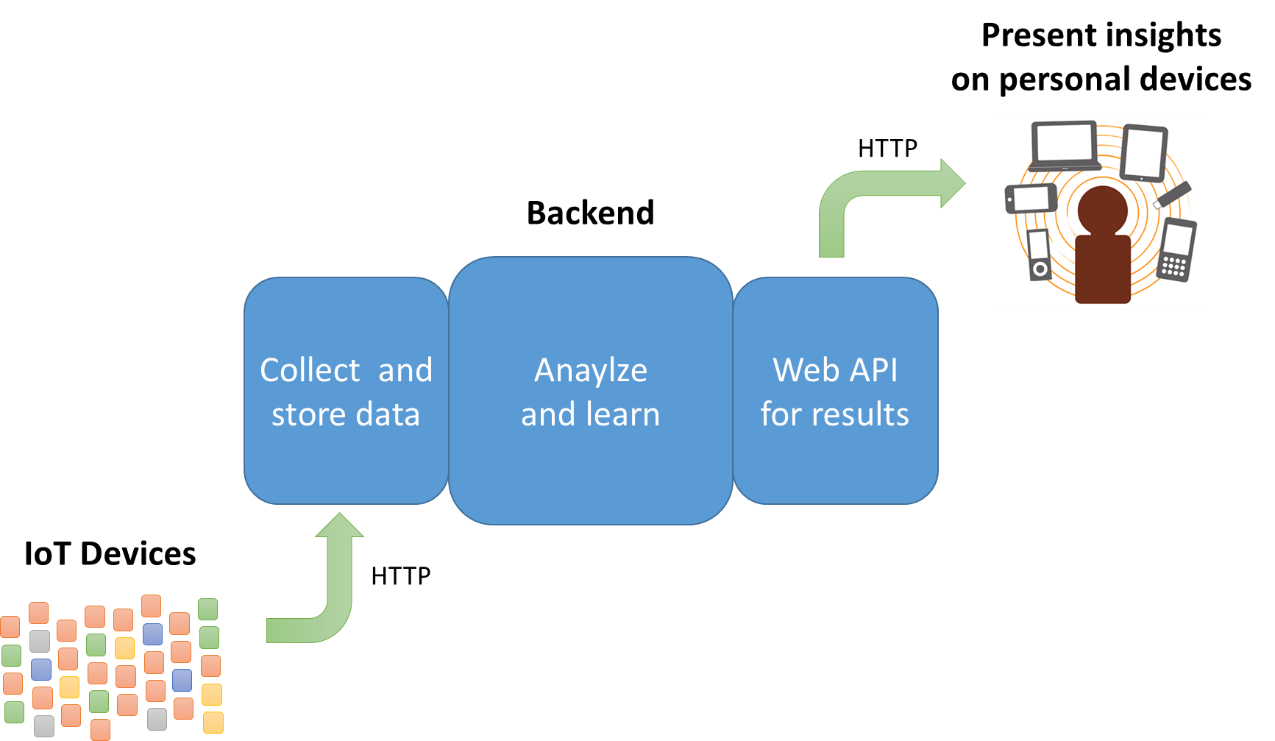
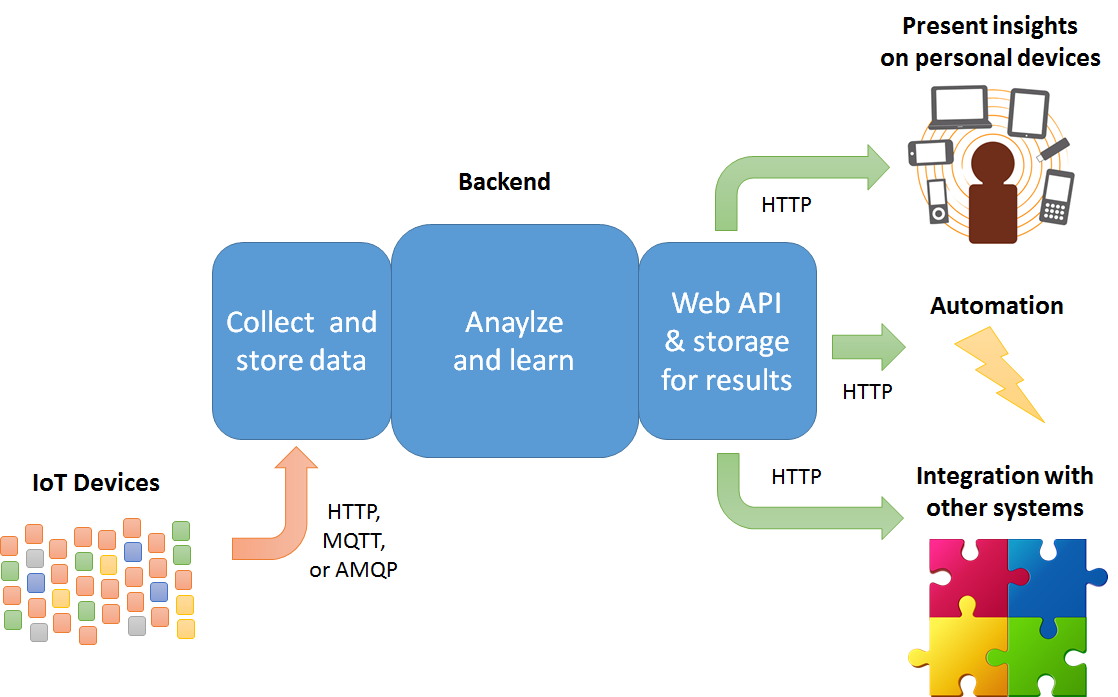
added/updated images

diff --git a/Docs/RefDocs/02-TopLevel/02-main-components-and-relationships.md b/Docs/RefDocs/02-TopLevel/02-main-components-and-relationships.md
@@ -2,28 +2,28 @@
 
 As described in the introduction, the design of the overall {Token:ProjectName} system has three primary components:
 
-- IoT devices connected via HTTP to the Azure IoT Hub component of the backend.
+- IoT devices connected via HTTP to the Azure IoT Hub ("cloud gateway") component of the backend.
 - The backend as a whole, which is composed of a number of Azure services.
-- Mobile devices, tablets, and/or PCs running apps connected via HTTP to the backend’s API endpoints.
+- Data visualization and consumption through apps on mobile/tablet/PC devices, through automated systems, or through integration with other systems. In general, these consume the backend’s API endpoints or other access to storage.
 
 ![Top-level relationship between the main components](media/top-level-relationships-01-top.png)
 
-The IoT devices can be built in a number of ways, with the sole requirement being their ability to communicate with the backend’s IoT Hub through HTTP as shown above. In the {Token:ProjectName} demonstration, these “devices,” as outlined in the figure below, are composed of an OBD dongle that’s plugged directly into the vehicle, which talks to a mobile phone via Bluetooth, which in turn sends data onto the backend via HTTP:
+The IoT devices can be built in a number of ways, with the sole requirement being their ability to communicate with the backend cloud gateway through protocols such as HTTP, MQTT, or AMQP as shown above. In the {Token:ProjectName} demonstration, these “devices,” as outlined in the figure below, are composed of an OBD dongle that’s plugged directly into the vehicle, which talks to a mobile phone via Bluetooth, which in turn sends data to the backend via HTTP:
 
 ![Interface between IoT devices and the backend using IoT Hub](media/top-level-relationships-02-iot.png)
 
-It’s essential to understand here that the mobile phone is simply acting as a “field gateway” to route the IoT data to the backend's "cloud gateway." We chose this model in the demonstration scenario because most consumers already have a mobile phone and can acquire an inexpensive off-the-shelf, Bluetooth-capable OBD device to plug into their car. This minimizes the cost of that particular user experience.
+It’s essential to understand that in this role the mobile phone is simply acting as a “field gateway” to route the IoT data to the backend's cloud gateway (IoT Hub in this case). We chose this model for {Token:ProjectName} because most drivers already have a mobile phone and can acquire an inexpensive off-the-shelf, Bluetooth-capable OBD device to plug into their car. This avoids having to acquire a more expensive dedicated IoT device, which is to say, minimizes the overall cost of the user experience.
 
-In your own scenarios, on the other hand, a mobile device might not be appropriate or would raise the cost of the overall solution, whereas using building a dedicated device with a Raspberry Pi would be much better. Again, it doesn’t matter so long as the “device” here can interact with the cloud gateway (e.g. Azure IoT Hub) via one of its supported protocols. We’ll see all the details in Section 2.1, *IoT devices*.
+In your own scenarios, on the other hand, a mobile device might not be appropriate or assumed, in which case building a dedicated device with a Raspberry Pi could be more cost-effective. Again, it doesn’t matter so long as the “device” here can interact with the cloud gateway via one of its supported protocols. We’ll see all the details in Section 2.1, *IoT devices*.
 
-On the other side of the system, the value derived from the IoT data is delivered through API endpoints in the backend:
+On the other side of the system, the value derived from the IoT data is delivered through API endpoints in the backend, which includes storage mechanisms that are access through HTTP (and possibly other protocols not shown):
 
 ![Interface between the mobile app and the backend using App Service](media/top-level-relationships-03-mobile.png)
  
-How you deliver the user experience is entirely up to you—and in fully automated scenarios might not even involve a user experience. In our demonstration scenario we’ve chosen Xamarin to deliver apps on iOS, Android, and Windows, but you can just as easily use a web browser, Apache Cordova, ReactNative, Unity 3D or other immersive graphics/gaming engine, and so on.
+How you deliver the user experience is entirely up to you—and in fully automated scenarios might not even involve a user experience. In our demonstration scenario we have two routes for data visualization. First, we’ve chosen Xamarin to deliver apps on iOS, Android, and Windows, through which an user interacts with his or her personal data. Similar experiences could be delivered also through a web browser or other cross-platform app technologies like Apache Cordova and ReactNative. The second route is data visualization *across* users and devices, which is accomplished through PowerBI and its ability to connect to backend data stores directly.  
 
-As mentioned in the Introduction, configuration of the mobile phone as a field gateway on the IoT side happens through the same app that delivers the user experience. This is again a decision made for convenience: the two roles are entirely separate and can be fulfilled by different components if appropriate.
+As mentioned earlier, configuration of the mobile phone as a field gateway on the IoT side happens through the same app that delivers the user experience. This is again a decision made for convenience: the two roles are entirely separate and can be fulfilled by different components if appropriate.
 
-In any case, Section 2.2, *Consuming and visualizing the data*, explores the Xamarin app used in {Token:ProjectName} including its structure, main flows, how we build it using Visual Studio Team Services, and how we handle distribution and telemetry using HockeyApp.
+In any case, Section 2.2, *Consuming and visualizing personal data*, explores the Xamarin app used in {Token:ProjectName} including its structure, main flows, how we build it using Visual Studio Team Services, and how we handle distribution and telemetry using HockeyApp.
 
-This brings us to the middle of the system where we have the whole cloud backend running in Microsoft Azure, the internal details of which we’ll see in Section 3. Here we'll first concern ourselves with its interfaces to the other components, namely IoT Hub and the backend’s API endpoints that are implemented with Azure App Service. As you can see in the diagrams above, there are APIs on both ends: one API to provision/register IoT devices with the IoT Hub, and then a number of APIs that deliver the results to whatever user experiences you might want to build around them. We’ll see how all this is put together in Section 2.3, *Backend interfaces*.
+This brings us to the middle of the system where we have the whole cloud backend running in Microsoft Azure. We'll deal with most of the internal details in section 3, including visualization with PowerBI because that has a more intimate connection with the backend. What we'll concern ourselves with here is rather the backend's external interfaces--namely IoT Hub and API endpoints implemented in Azure App Service.  We’ll see how those are put together in Section 2.3, *Backend interfaces*.
